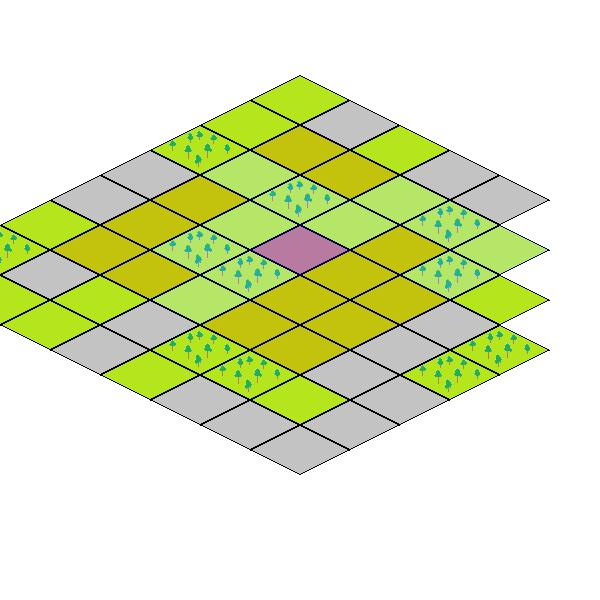
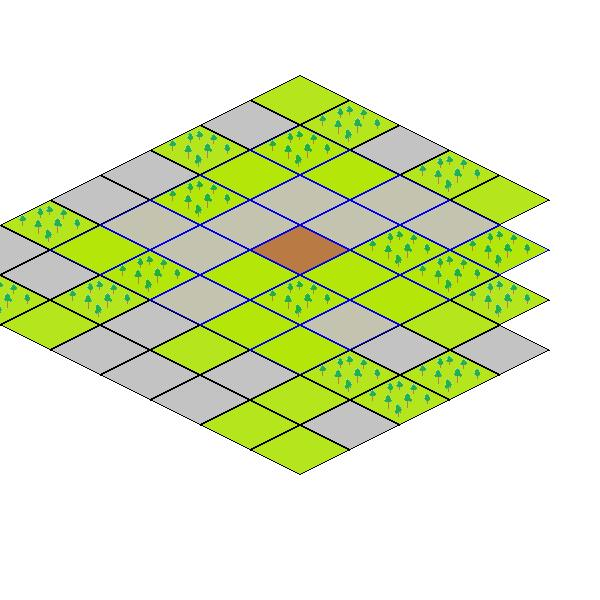
buggy code

Changed region(s): [[0.0, 0.15, 0.93, 0.81]]

diff --git a/tiles.py b/tiles.py
@@ -28,7 +28,7 @@ class Tile():
         self.settlement = None
         self.movableUnit = None
         self.settlementColorSprite = None
-        self.dSettlementColor = [0,0,75]
+        self.dSettlementColor = [0,0,-20]
 
         assert(isinstance(self.sprite, Sprite))
 
@@ -67,15 +67,16 @@ class Tile():
             self.resourceIcon = ResourceIcon(self, app)
 
     # Changes sprite without making an alias
-    def changeSprite(self, newSprite, app, changeSettlementSprite = False, redraw = False):
+    def changeSprite(self, newSprite, app, SchangeSettlementprite = False, redraw = False):
         self.sprite = newSprite
-        if changeSettlementSprite == False: self.settlementColorSprite = None
+        self.settlementColorSprite = Tile.getRecoloredSprite(self, self.sprite, self.dSettlementColor, True)
+        # if changeSettlementSprite == False: self.settlementColorSprite = None
         # self.settlementColorSprite = Tile.getRecoloredSprite(self.sprite, self.dSettlementColor)
         if app.map != None and redraw != False: Tile.redrawTile(self, (app.currentViewRow,app.currentViewCol), app.spriteDrawer, (app.width, app.height),
                             app.map, app.mapRenderer)
 
-    def getSprite(self):
-        if self.settlement != None: return self.getRecoloredSprite(self.sprite,self.dSettlementColor)
+    def getSprite(self, recolored = True):
+        if self.settlement != None and recolored: return self.getRecoloredSprite(self.sprite,self.dSettlementColor)
         else: return self.sprite
     
     def getUnmodifiedSprite(self):
@@ -95,18 +96,19 @@ class Tile():
     def getType(self):
         return self.type
 
-    def getRecoloredSprite(self, sprite, dColor):
+    def getRecoloredSprite(self, sprite, dColor, border = True):
         if self.settlementColorSprite == None:
             data = sprite.getData()
             rows, cols = len(data), len(data[0])
             for row in range(rows):
                 for col in range(cols):
                     if data[row,col,:3].tolist() != [255,255,255]:
-                        data[row,col,0] = (data[row,col,0] + dColor[0])%255
-                        data[row,col,1] = (data[row,col,1] + dColor[1])%255
-                        data[row,col,2] = (data[row,col,2] + dColor[2])%255
+                        for i in range(3):
+                            value = int(data[row,col,i])
+                            data[row,col,i] = (value + dColor[i])%255
             
             newSprite = Sprite(Image.fromarray(data[:,:,:3], mode = "RGB"))
+            # if border: newSprite = self.changeSpriteBorder(newSprite, [0,0,20])
 
             self.settlementColorSprite = newSprite
         return self.settlementColorSprite
@@ -134,8 +136,13 @@ class Tile():
 
     @staticmethod
     def changeTileBorder(tile, borderColor, app):
+        newSprite = Tile.changeSpriteBorder(tile.getSprite(),borderColor)
+        tile.changeSprite(newSprite, app)
+   
+    @staticmethod
+    def changeSpriteBorder(sprite, borderColor):
         borderData = Tile.getSpriteByName('empty').getData()
-        newSpriteData = tile.getSprite().getData()
+        newSpriteData = sprite.getData()
         rows, cols = len(borderData), len(borderData[0])
 
         for row in range(rows):
@@ -145,8 +152,8 @@ class Tile():
 
 
         img = Image.fromarray(newSpriteData, mode = "RGB")
-        tile.changeSprite(Sprite(img), app, changeSettlementSprite = True)
-        
+        return Sprite(img)
+
     @staticmethod
     def getSpriteByName(name):
         if name in Tile.defaultSprites:
